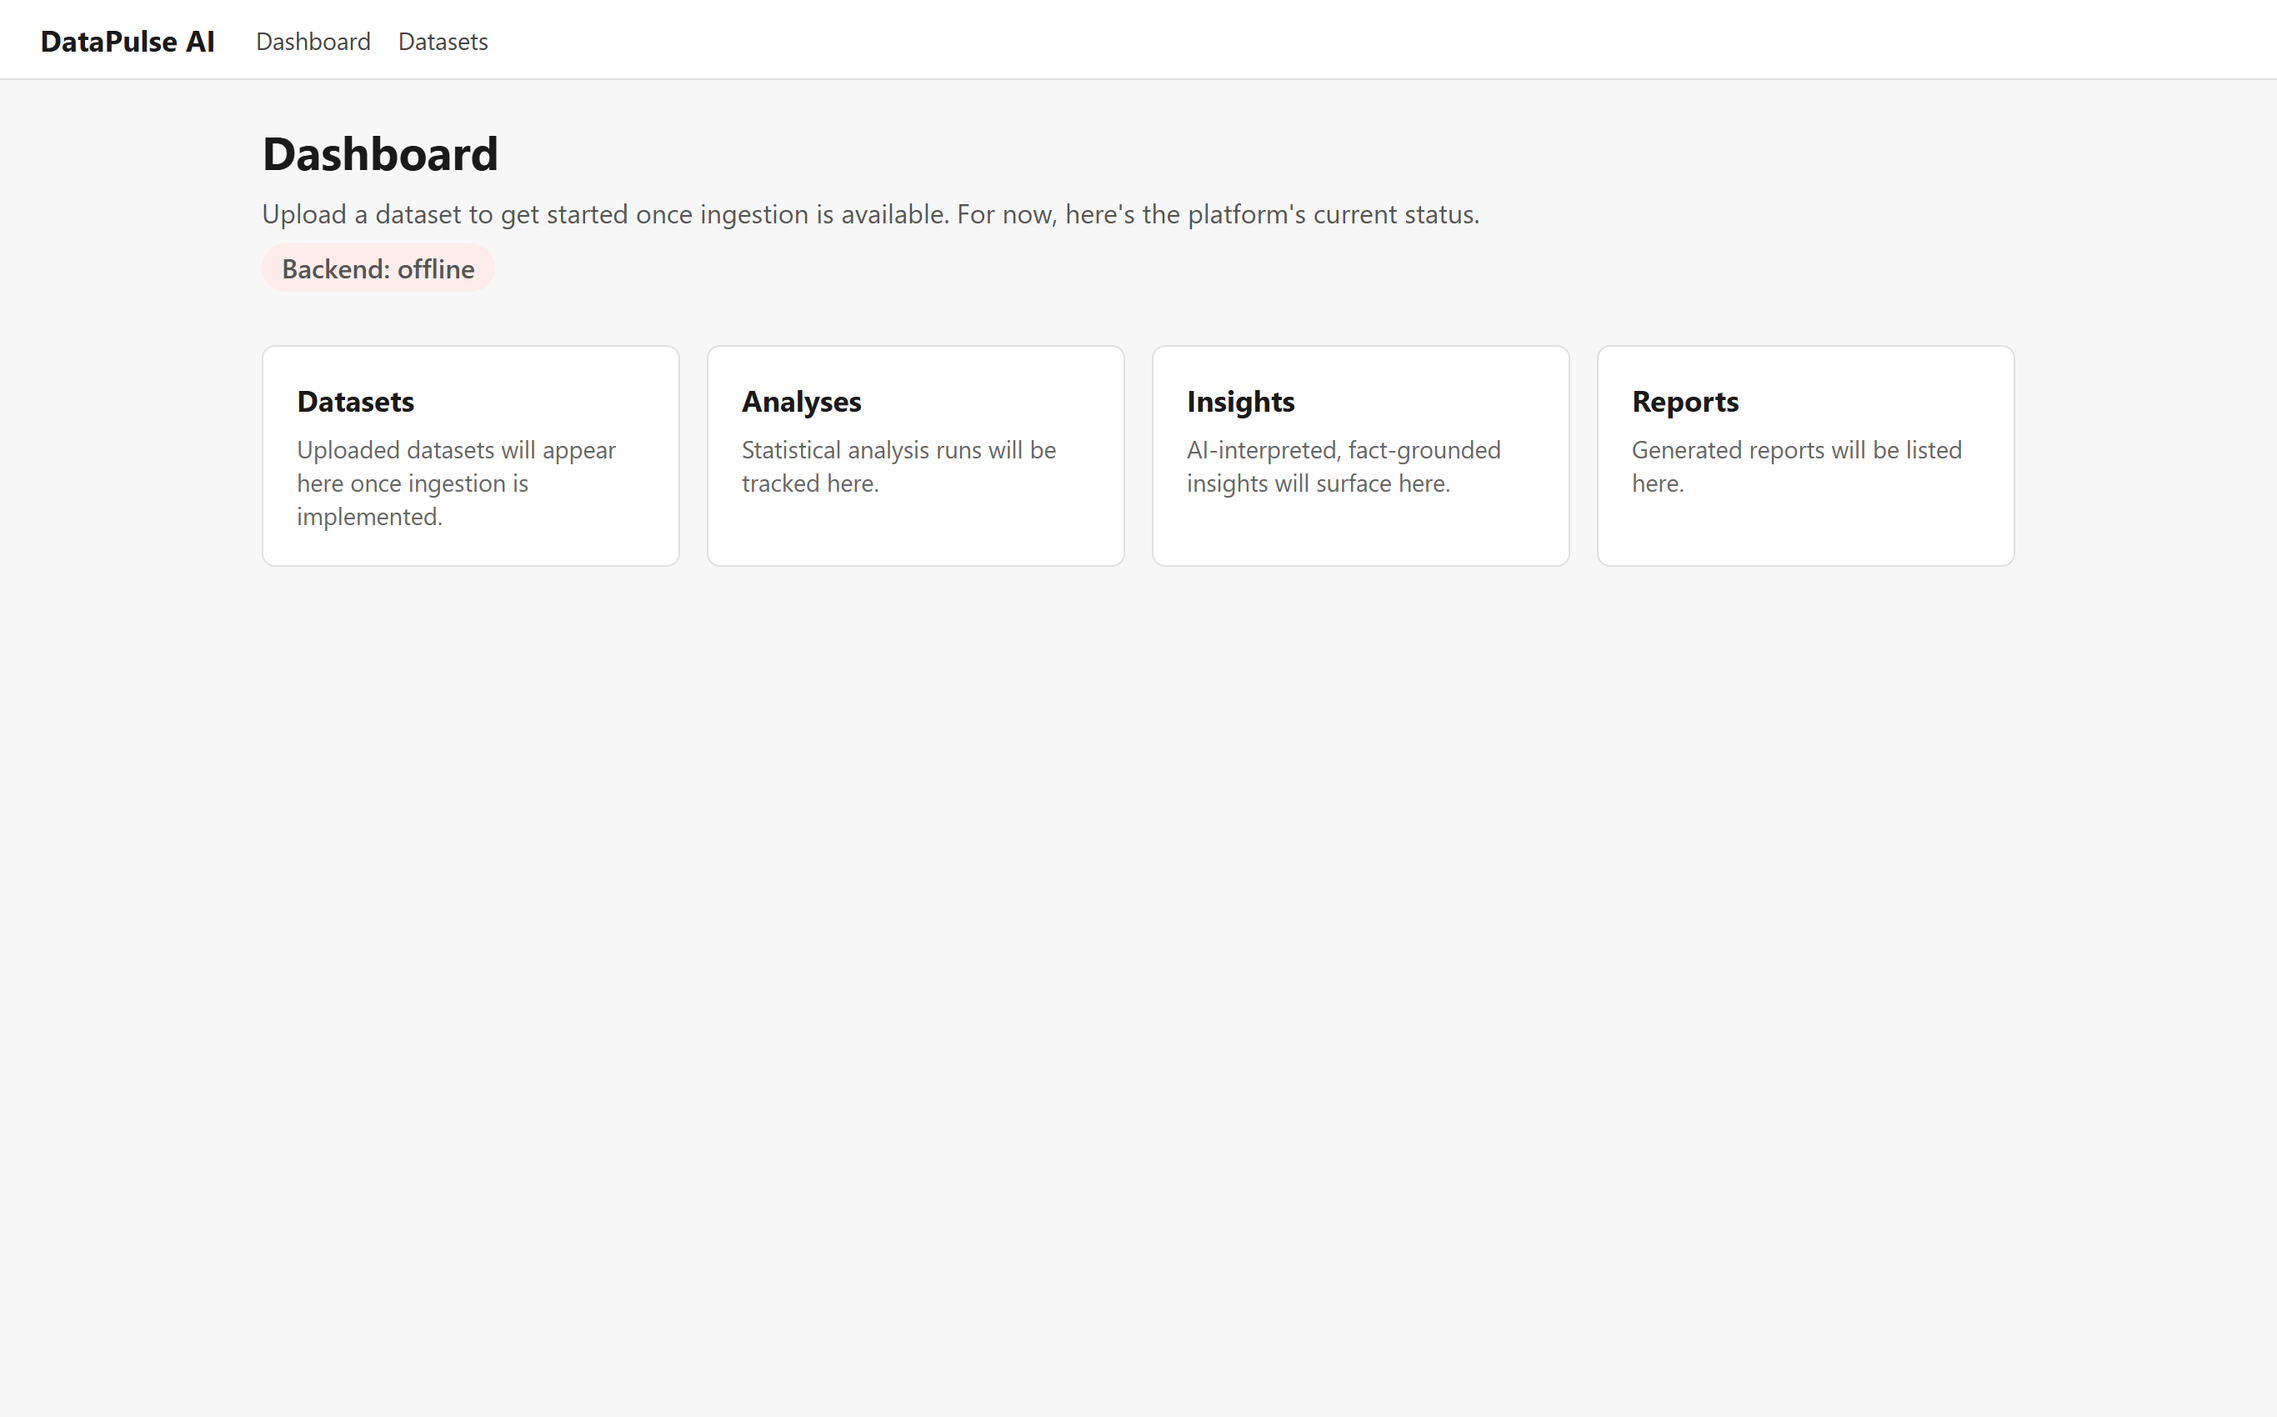
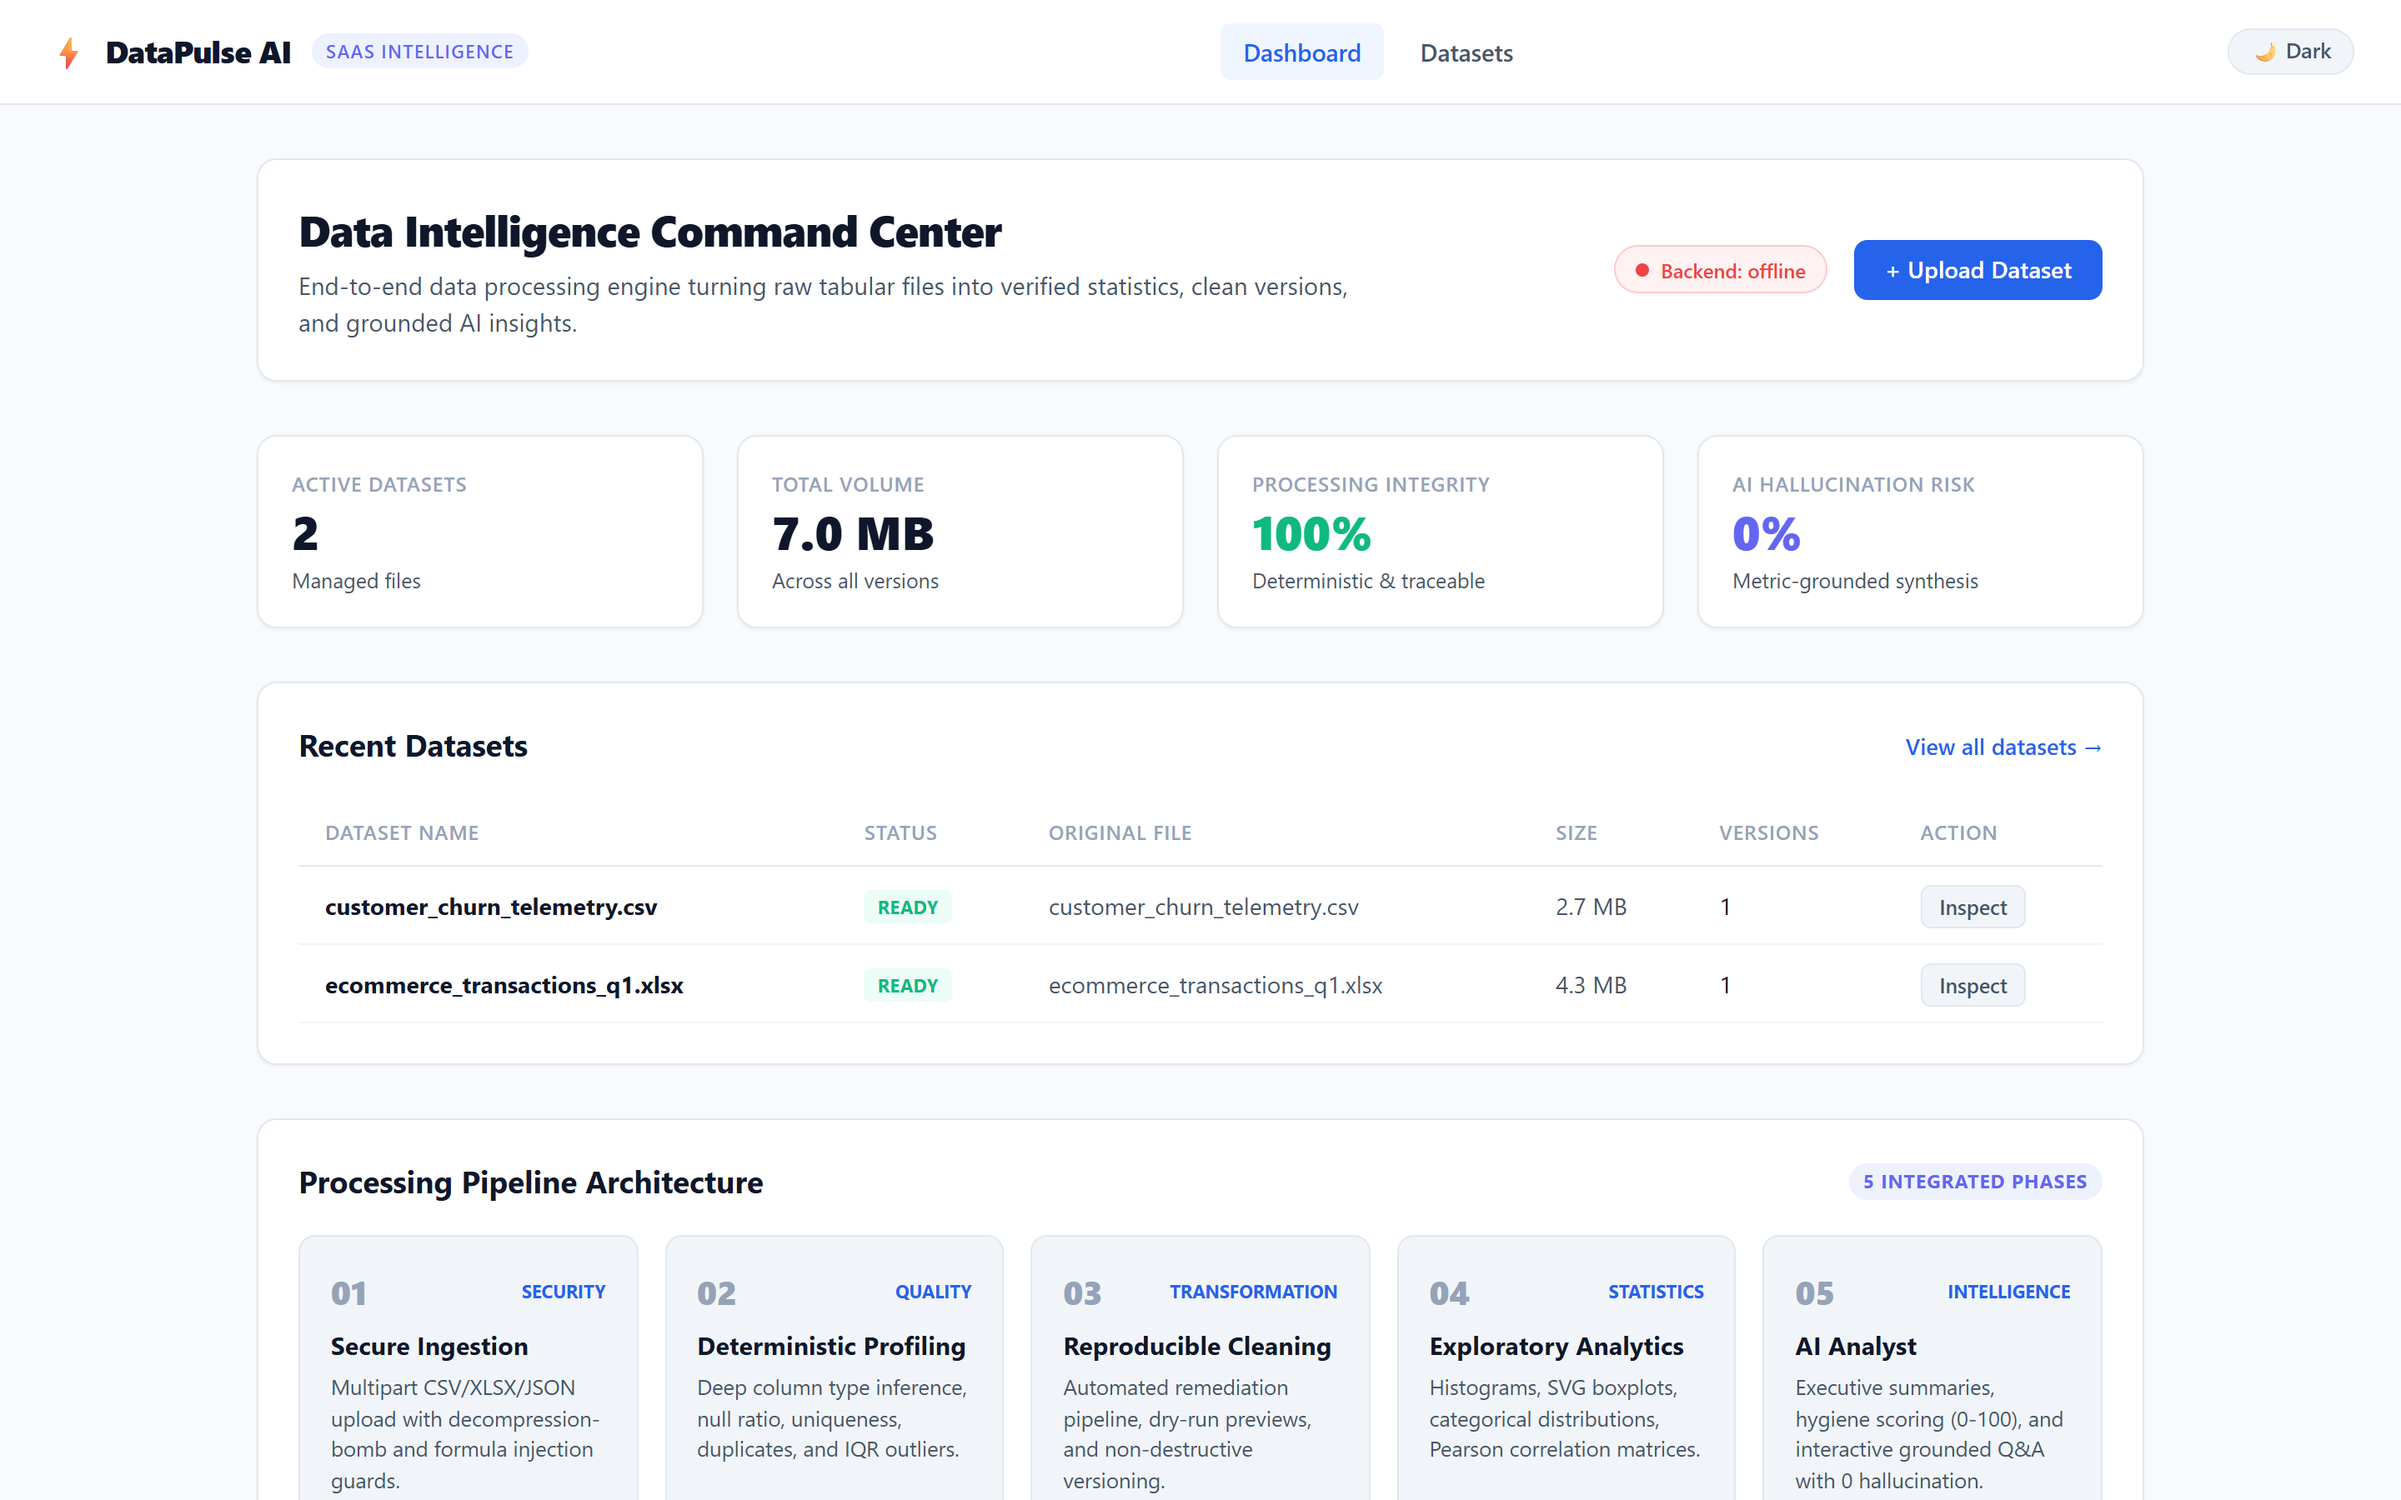
docs: refresh UI screenshots with modern design system and add Dark Mode tour to README

diff --git a/README.md b/README.md
@@ -69,39 +69,51 @@ Full setup (including running each service natively without Docker), environment
 
 Voici un tour d'horizon des interfaces clés de la plateforme DataPulse AI :
 
-### 1. Tableau de bord & Présentation du système
-Vue d'accueil guidant l'utilisateur sur le flux d'analyse et les capacités de la plateforme.
+### 1. Command Center Dashboard & KPIs
+Vue d'accueil moderne avec indicateurs clés (KPIs), tableau réactif des datasets récents et schéma des 5 étapes du pipeline de traitement.
 ![Dashboard](docs/screenshots/01-dashboard.png)
 
 ---
 
-### 2. Authentification sécurisée (JWT)
-Connexion et enregistrement avec validation stricte, stockage sécurisé du token et retours d'erreurs en temps réel.
+### 2. Thème Sombre & Design System (Dark Mode)
+Basculement instantané entre mode clair et mode sombre sans scintillement, géré par le `ThemeService` avec persistance `localStorage` et tokens CSS.
+![Dark Mode Dashboard](docs/screenshots/08-dark-mode-dashboard.png)
+
+---
+
+### 3. Authentification sécurisée (JWT)
+Connexion et inscription par carte stylisée avec validation réactive, stockage sécurisé du token et retours d'erreurs en temps réel.
 ![Login](docs/screenshots/02-login.png)
 
 ---
 
-### 3. Gestion et Ingestion des Datasets
-Catalogue des jeux de données téléversés, zone de dépôt (CSV, XLSX, JSON), badge de sécurité contre l'injection de formules et formatage intelligent des tailles de fichiers (`FileSizePipe`).
+### 4. Datasets Explorer & Recherche instantanée
+Catalogue dynamique avec filtrage de recherche en direct, zone d'ingestion moderne (CSV, XLSX, JSON), badge de sécurité anti-injection de formules et skeleton loaders.
 ![Datasets List](docs/screenshots/03-dataset-list.png)
 
 ---
 
-### 4. Data Profiling & Analyse des colonnes
-Calcul déterministe en un clic : détection des types métiers (integer, float, categorical, date...), volumétrie, complétude, cellules nulles, unicité et statistiques de dispersion (min, max, moyenne).
+### 5. Data Profiling déterministe
+Calcul déterministe en un clic : détection des types métiers (integer, float, categorical, date...), volumétrie, complétude, cellules nulles, unicité et statistiques de dispersion.
 ![Data Profiling](docs/screenshots/04-data-profiling.png)
 
 ---
 
-### 5. Recommandations de nettoyage & Prévisualisation interactive
+### 6. Recommandations de nettoyage & Prévisualisation interactive
 Détection proactive d'anomalies (doublons, valeurs manquantes, espaces parasites, outliers IQR). L'utilisateur sélectionne ses opérations et lance un calcul de prévisualisation (avant/après) avant d'appliquer les transformations de manière non destructive.
 ![Data Cleaning](docs/screenshots/05-data-cleaning.png)
 
 ---
 
-### 6. Analytics avancés & Visualisations interactives (Chart.js)
-Génération automatisée d'analyses statistiques approfondies : histogrammes avec pas optimisés, boxplots SVG de distribution, graphiques catégoriels en barres, séries chronologiques agrégées par granularité, matrices de corrélation de Pearson et nuages de points relationnels échantillonnés.
+### 7. Analytics avancés & Visualisations interactives (Chart.js)
+Génération automatisée d'analyses statistiques approfondies : histogrammes optimisés, boxplots SVG de distribution, graphiques catégoriels en barres, séries chronologiques agrégées, matrices de corrélation de Pearson et nuages de points relationnels.
 ![Analytics & Visualisations](docs/screenshots/06-analytics-visualizations.png)
+
+---
+
+### 8. AI Data Analyst & Q&A Groundé (Zéro Hallucination)
+Synthèse exécutive automatisée, jauge de score d'hygiène (0-100), cartes d'insights catégorisées (`computed_fact`, `statistical_interpretation`, `recommendation`) et questions-réponses interactives ancrées dans les métriques réelles.
+![AI Data Analyst](docs/screenshots/07-ai-analyst.png)
 
 ---
 
